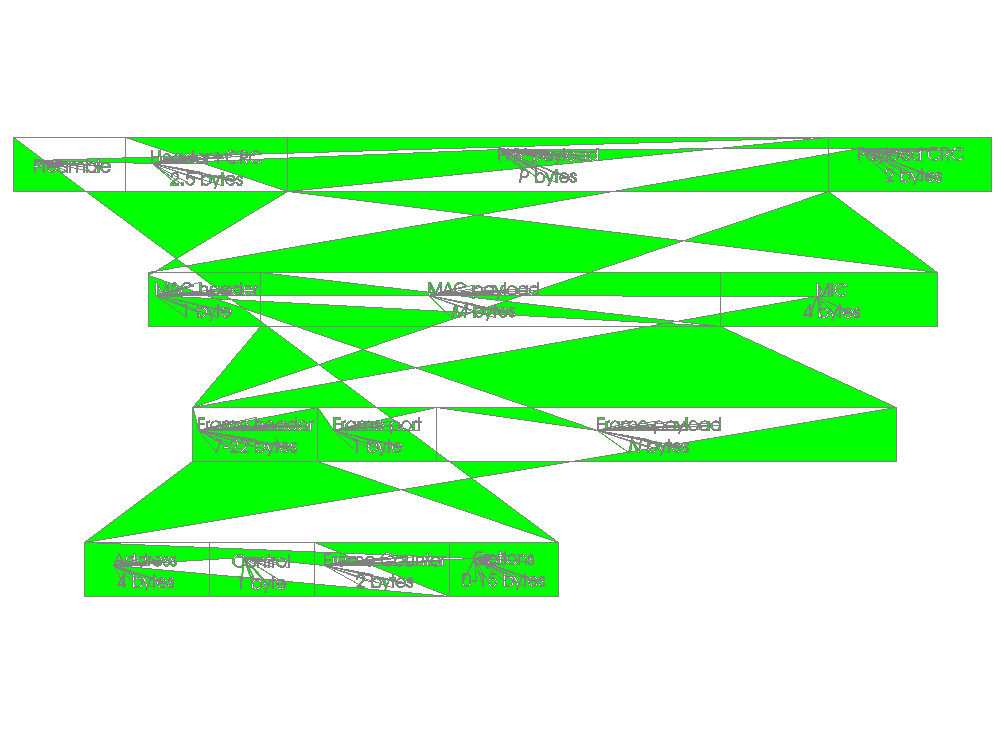
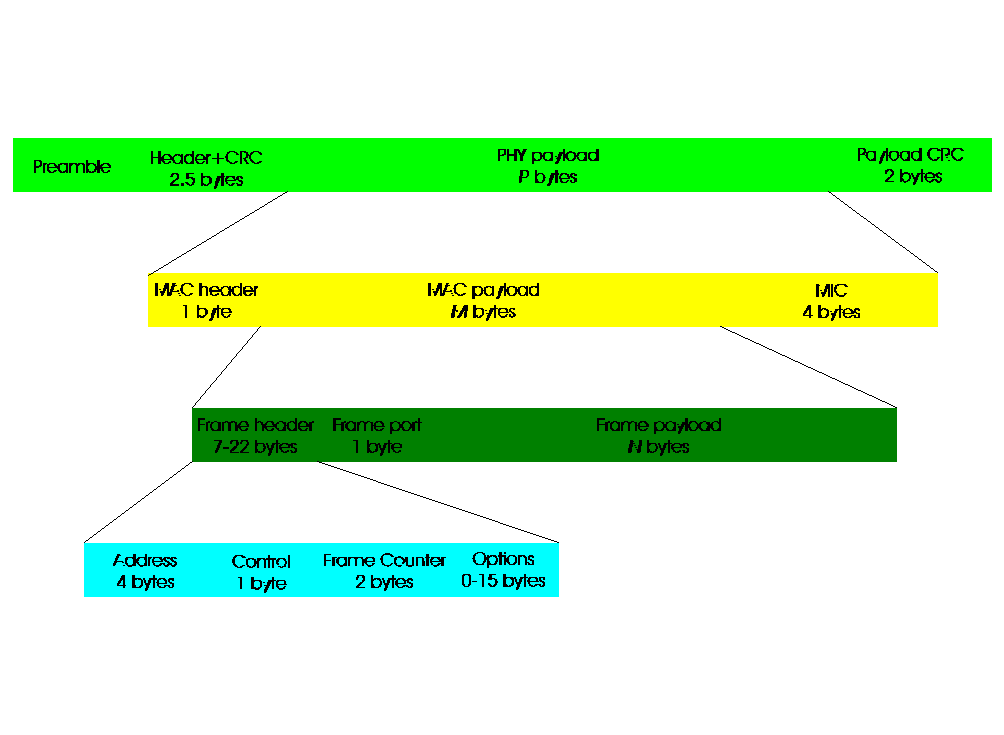
Fix GDF vector area tearing

diff --git a/libgeist/src/img/gdf_raster.cpp b/libgeist/src/img/gdf_raster.cpp
@@ -4,7 +4,7 @@
 #include <array>
 #include <cmath>
 #include <cstdint>
-#include <limits>
+#include <map>
 #include <vector>
 
 namespace geist::detail {
@@ -210,8 +210,16 @@ void fill_area(RgbaImage& image,
                const FilledArea& area,
                MapX map_x,
                MapY map_y) {
+  struct Edge {
+    int x0;
+    int y0;
+    int x1;
+    int y1;
+  };
+
   std::vector<std::vector<std::pair<int, int>>> contours;
-  std::vector<double> segment_lengths;
+  std::vector<Edge> edges;
+  std::map<std::array<int, 4>, std::vector<std::size_t>> pending_edges;
   int min_y = static_cast<int>(image.height);
   int max_y = 0;
   for (const auto& contour : area.contours) {
@@ -225,55 +233,45 @@ void fill_area(RgbaImage& image,
       min_y = std::min(min_y, pts.back().second);
       max_y = std::max(max_y, pts.back().second);
     }
-    for (std::size_t i = 1; i < contour.size(); ++i) {
-      const double dx = contour[i].x - contour[i - 1].x;
-      const double dy = contour[i].y - contour[i - 1].y;
-      segment_lengths.push_back(std::sqrt(dx * dx + dy * dy));
+    for (std::size_t i = 1; i < pts.size(); ++i) {
+      const auto [x0, y0] = pts[i - 1];
+      const auto [x1, y1] = pts[i];
+      if (x0 == x1 && y0 == y1) {
+        continue;
+      }
+      const std::array<int, 4> reverse_key{x1, y1, x0, y0};
+      const auto reverse = pending_edges.find(reverse_key);
+      if (reverse != pending_edges.end() && !reverse->second.empty()) {
+        edges[reverse->second.back()] = {0, 0, 0, 0};
+        reverse->second.pop_back();
+        if (reverse->second.empty()) {
+          pending_edges.erase(reverse);
+        }
+        continue;
+      }
+
+      const auto index = edges.size();
+      edges.push_back(Edge{x0, y0, x1, y1});
+      pending_edges[{x0, y0, x1, y1}].push_back(index);
     }
   }
   if (contours.empty()) {
     return;
   }
 
-  double connector_threshold = std::numeric_limits<double>::infinity();
-  if (segment_lengths.size() > 20) {
-    auto sorted_lengths = segment_lengths;
-    std::sort(sorted_lengths.begin(), sorted_lengths.end());
-    const double median = sorted_lengths[sorted_lengths.size() / 2];
-    if (median < 1.0) {
-      // Packet vector-font areas contain long pen-up connectors among tiny
-      // outline segments; ImageMark does not fill across those connectors.
-      connector_threshold = std::max(3.4, median * 8.0);
-    }
-  }
-
-  auto is_connector = [&](const std::pair<int, int>& p0,
-                          const std::pair<int, int>& p1) {
-    if (!std::isfinite(connector_threshold)) {
-      return false;
-    }
-    const double dx = static_cast<double>(p1.first - p0.first);
-    const double dy = static_cast<double>(p1.second - p0.second);
-    return std::sqrt(dx * dx + dy * dy) >
-           connector_threshold * std::min(map_x(1.0) - map_x(0.0),
-                                          map_y(0.0) - map_y(1.0));
-  };
-
   min_y = std::max(0, min_y);
   max_y = std::min(static_cast<int>(image.height) - 1, max_y);
   for (int y = min_y; y <= max_y; ++y) {
     std::vector<std::pair<int, int>> nodes;
-    for (const auto& pts : contours) {
-      for (std::size_t i = 1; i < pts.size(); ++i) {
-        const auto [x0, y0] = pts[i - 1];
-        const auto [x1, y1] = pts[i];
-        if (is_connector(pts[i - 1], pts[i])) {
-          continue;
-        }
-        if ((y0 < y && y1 >= y) || (y1 < y && y0 >= y)) {
-          nodes.emplace_back(x0 + (y - y0) * (x1 - x0) / (y1 - y0),
-                             y1 > y0 ? 1 : -1);
-        }
+    for (const auto& edge : edges) {
+      if (edge.x0 == edge.x1 && edge.y0 == edge.y1) {
+        continue;
+      }
+      if ((edge.y0 < y && edge.y1 >= y) ||
+          (edge.y1 < y && edge.y0 >= y)) {
+        nodes.emplace_back(edge.x0 + (y - edge.y0) * (edge.x1 - edge.x0) /
+                                         (edge.y1 - edge.y0),
+                           edge.y1 > edge.y0 ? 1 : -1);
       }
     }
     std::sort(nodes.begin(), nodes.end());
@@ -287,8 +285,10 @@ void fill_area(RgbaImage& image,
       if (winding == 0) {
         const int fill_begin = std::max(0, begin);
         const int fill_end = std::min(static_cast<int>(image.width) - 1, x);
-        for (int xx = fill_begin; xx <= fill_end; ++xx) {
-          set_pixel(image, xx, y, area.fill);
+        if (fill_end > fill_begin) {
+          for (int xx = fill_begin; xx <= fill_end; ++xx) {
+            set_pixel(image, xx, y, area.fill);
+          }
         }
       }
     }
@@ -297,9 +297,6 @@ void fill_area(RgbaImage& image,
   if (area.draw_boundary) {
     for (const auto& pts : contours) {
       for (std::size_t i = 1; i < pts.size(); ++i) {
-        if (is_connector(pts[i - 1], pts[i])) {
-          continue;
-        }
         draw_line(image,
                   pts[i - 1].first,
                   pts[i - 1].second,

diff --git a/AnalysisNotes/gdf-opcode-analysis-workflow.md b/AnalysisNotes/gdf-opcode-analysis-workflow.md
@@ -47,6 +47,50 @@ Useful topics:
 | `/B.11.3` | Character Set Order | Defines `0x38` as a one-byte local character-set id, with `0x00` default and `0x41..0xdf` user-defined sets. |
 | `/B.11.4` | Character Shear Order | Defines the IBM shear vector semantics and the expected opcode `0x35`, which differs from the loaded filter's dispatched `0x36` handler. |
 
+For the packet image comparison work, the BookServer copy of
+`BOO/packet.boo` was used as the upstream renderer:
+
+```text
+http://cbrdoc01.lan.cyber.gent/bookmgr/bookmgr.exe/BOOKS/packet
+```
+
+BookServer generates the `/bookmgr/pictures/...GIF` files lazily. A direct
+request for a picture URL can return a small XHTML `404 Not Found` response
+until the topic page that embeds that figure has been fetched once. The
+repeatable workflow is:
+
+1. Fetch the figure-bearing topic page with the book timestamp:
+
+   ```text
+   http://cbrdoc01.lan.cyber.gent/bookmgr/bookmgr.exe/BOOKS/packet/2.1.4?DT=20260614112503&SHELF=
+   ```
+
+2. Read the embedded image URL from the topic HTML, for example:
+
+   ```text
+   /bookmgr/pictures/packet.20260614112503.P3.GIF
+   ```
+
+3. Fetch the generated picture URL:
+
+   ```text
+   http://cbrdoc01.lan.cyber.gent/bookmgr/pictures/packet.20260614112503.P3.GIF
+   ```
+
+The figure topics used for PACKET validation were:
+
+| Figure | Topic | Generated picture URL |
+| ---: | --- | --- |
+| 1 | `1.3` | `/bookmgr/pictures/packet.20260614112503.P1.GIF` |
+| 2 | `2.1.3` | `/bookmgr/pictures/packet.20260614112503.P2.GIF` |
+| 3 | `2.1.4` | `/bookmgr/pictures/packet.20260614112503.P3.GIF` |
+| 4 | `2.1.4` | `/bookmgr/pictures/packet.20260614112503.P4.GIF` |
+| 5 | `2.2.1` | `/bookmgr/pictures/packet.20260614112503.P5.GIF` |
+| 6 | `2.4` | `/bookmgr/pictures/packet.20260614112503.P6.GIF` |
+| 7 | `3.3.2` | `/bookmgr/pictures/packet.20260614112503.P7.GIF` |
+| 8 | `3.3.3` | `/bookmgr/pictures/packet.20260614112503.P8.GIF` |
+| 9 | `7.1.3` | `/bookmgr/pictures/packet.20260614112503.P9.GIF` |
+
 ## Binary Analysis Path
 
 The loaded IDA Pro MCP database was:
@@ -170,12 +214,30 @@ Text/font-specific IDA findings:
   `./build/boorsrc --extract BOO/packet.boo 2 /tmp/packet-P2.gdf` and
   `./build/boorsrc --png BOO/packet.boo 2 /tmp/packet-P2-fixed3.png`.
   Byte-level evidence and upstream pixel samples were recorded in
-  `Format/GDF.md` under "Area Orders and Packet Resource 2 Evidence". A later
-  closer comparison showed that packet labels are filled GDF areas, not visible
-  construction strokes: rendering the `0x68 0x80 ... 0x60` label line orders
-  directly produces vector tearing, while filling area edge segments and
-  filtering the dense vector-font connector outliers matches the BookServer GIF
-  much more closely.
+  `Format/GDF.md` under "Area Orders and Packet Resource 2 Evidence". Later
+  comparison against all nine PACKET figures showed that packet labels are
+  filled GDF areas, not visible construction strokes: rendering the
+  `0x68 0x80 ... 0x60` label line orders directly produces vector tearing.
+- The active IDA Pro MCP instance for `Official Readers/BookSrv-Win32/isgdi32.dll`
+  showed the relevant filled-figure path in the upstream renderer:
+  `CBeginFigure`/`CEndFigure` accumulate 24-byte point records;
+  `sub_1C0435BF` appends a copy of the current subpath start and marks it with
+  point flag `3`; `sub_1C04DD90` treats flags `2` and `3` as close-subpath
+  markers; and `sub_1C058DB0` copies that 16-bit flag into the output point
+  records before calling `CPolygonSet` order `1032`.
+- The remaining PACKET tearing was traced to repeated out-and-back construction
+  edges inside filled stroke-font areas. Resource `6` area 2, the `IPv6` title,
+  contains an exact opposite-edge pair from the title anchor to the upper-right
+  of the `6` and back. The upstream fill path gives this pair zero net winding;
+  `libgeist` now cancels exact opposite directed pixel edges during area fill
+  scan conversion instead of using a length-based connector filter.
+- Validation on 2026-06-18 fetched the topic pages for PACKET figures 1 through
+  9 first, then fetched all nine generated GIFs from
+  `/bookmgr/pictures/packet.20260614112503.P#.GIF`. Local validation rendered
+  all nine BOO resources with
+  `./build/boorsrc --png BOO/packet.boo <id> /tmp/packet-render-cancel/<id>.png`
+  and visually compared the original problem cases `P2`, `P6`, and the larger
+  `P9` against the upstream GIFs.
 
 ## Repeatable Procedure
 

diff --git a/Format/GDF.md b/Format/GDF.md
@@ -322,16 +322,28 @@ Implementation consequences:
    orders directly creates outline text and vector tearing. The rasterizer must
    fill from the area's explicit line segments and draw boundary lines only when
    flag bit 1 is set.
-3. Dense stroke-font areas in packet resource `2` contain a small number of
-   long connector segments among hundreds of tiny outline segments. The hosted
-   renderer does not treat those connectors as filled boundaries; retaining
-   them creates diagonal cuts through glyphs such as `Address` and `14-28`.
-   `libgeist` therefore filters only outlier connector segments in dense
-   sub-unit area paths while leaving simple large-edged areas such as the
-   packet-field rectangles intact.
-4. Fill colors should be rendered as the direct palette color selected by the
+3. The Windows `ISGDI32.DLL` filled-figure path accumulates 24-byte point
+   records while inside `CBeginFigure`/`CEndFigure`. `CEndFigure` appends a copy
+   of the current subpath start and marks that point with flag `3`; the later
+   densifier treats point flags `2` and `3` as subpath-closing points before
+   emitting order `1032` through `CPolygonSet`. The third 8-byte slot in each
+   internal point record is copied into the 16-bit polygon-set flag field.
+4. Dense stroke-font areas in packet resources contain repeated out-and-back
+   construction edges to a fixed anchor point. For example, `packet.boo`
+   resource `6` area 2 contains both the edge
+   `(70.57216,89.05028) -> (80.720...,96.337...)` and its exact reverse in the
+   `IPv6` title. These paired opposite edges have zero net winding in the
+   upstream filled-figure renderer; treating either half as an ordinary visible
+   stroke, or scan-converting the pair as a real filled span, creates the
+   diagonal tearing seen in local renders.
+5. `libgeist` therefore preserves every parsed area segment, then cancels exact
+   opposite directed edges during area scan conversion. This models the
+   zero-net-winding behavior observed in `CPolygonSet` rendering without using
+   length-based or glyph-specific connector filters. Simple one-way large-edged
+   areas such as the packet-field rectangles remain intact.
+6. Fill colors should be rendered as the direct palette color selected by the
    GDF state, not blended toward a pastel fallback.
-5. The observed palette entry used by `0x26 02 00 08` is black for this
+7. The observed palette entry used by `0x26 02 00 08` is black for this
    ImageMark/GDDM path. Treating it as gray makes packet resource `2` labels
    visibly differ from the hosted reader output.
 
@@ -419,7 +431,7 @@ Implemented drawing behavior:
 | Marker orders | Rendered as simple cross/star marker shapes. |
 | Character orders | Text bytes are decoded as CP037/EBCDIC and rendered as bitmap glyphs with approximate font-family/style traits from the IBM/ImageMark fallback font table. |
 | Fillet, arc, and full-arc orders | Rendered as approximate elliptical polylines. |
-| Area orders | `0x68` begins or ends a fill area according to IBM flag bit 0, `0x60` closes the area, and line orders inside the area contribute fill-boundary segments. Boundary lines are drawn only when IBM flag bit 1 is set. Dense vector-font areas filter outlier connector segments before filling, matching packet resource `2` BookServer output. |
+| Area orders | `0x68` begins or ends a fill area according to IBM flag bit 0, `0x60` closes the area, and line orders inside the area contribute fill-boundary segments. Boundary lines are drawn only when IBM flag bit 1 is set. Exact opposite directed edges cancel during fill scan conversion, matching the zero-net-winding construction edges observed in packet resources `2`, `3`, `6`, and `9`. |
 | Graphics image begin/data/end orders | Renders a simple cell-array block from the buffered image bytes. |
 
 This is sufficient for inspection-oriented rendering and for visual recognition
